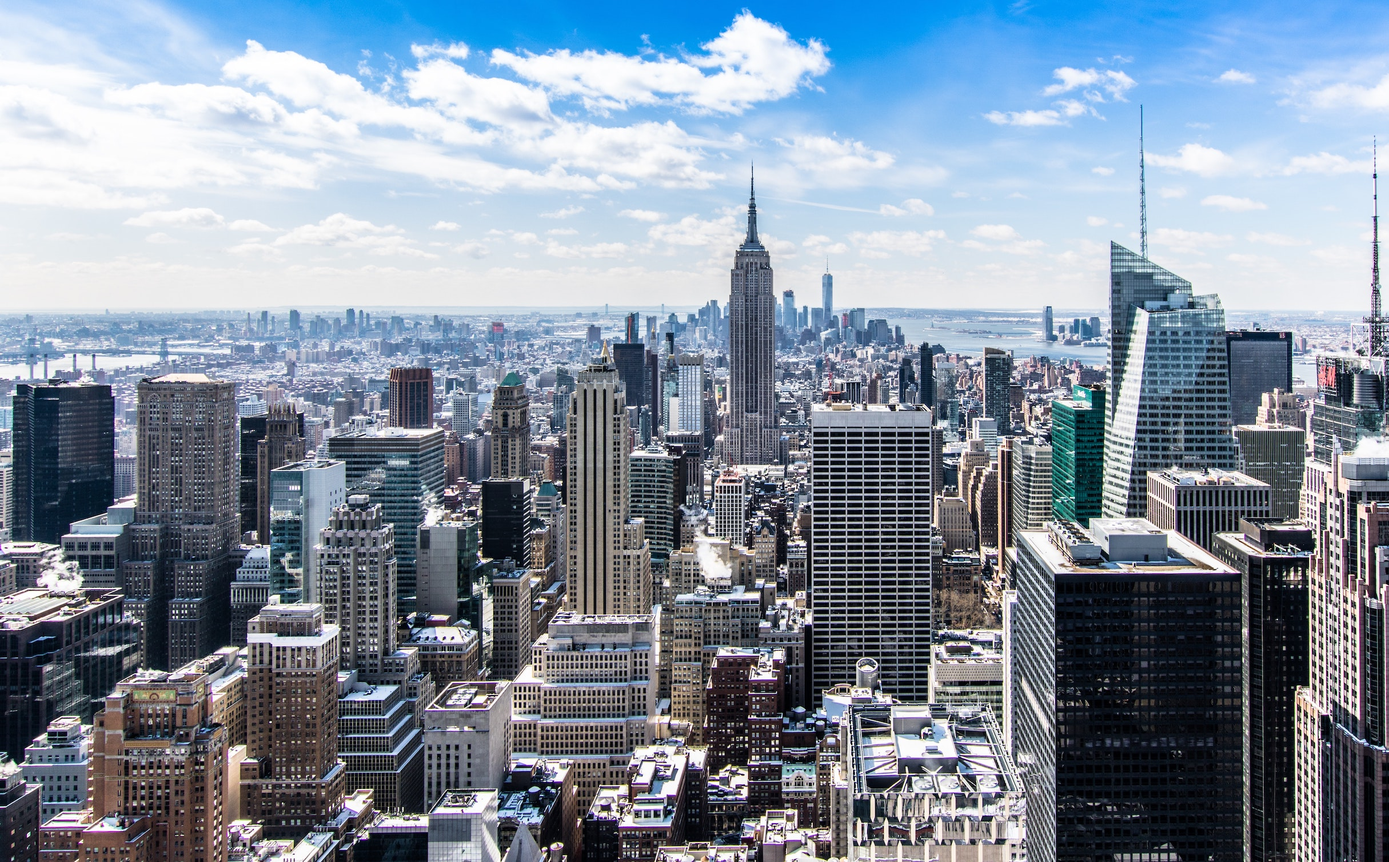
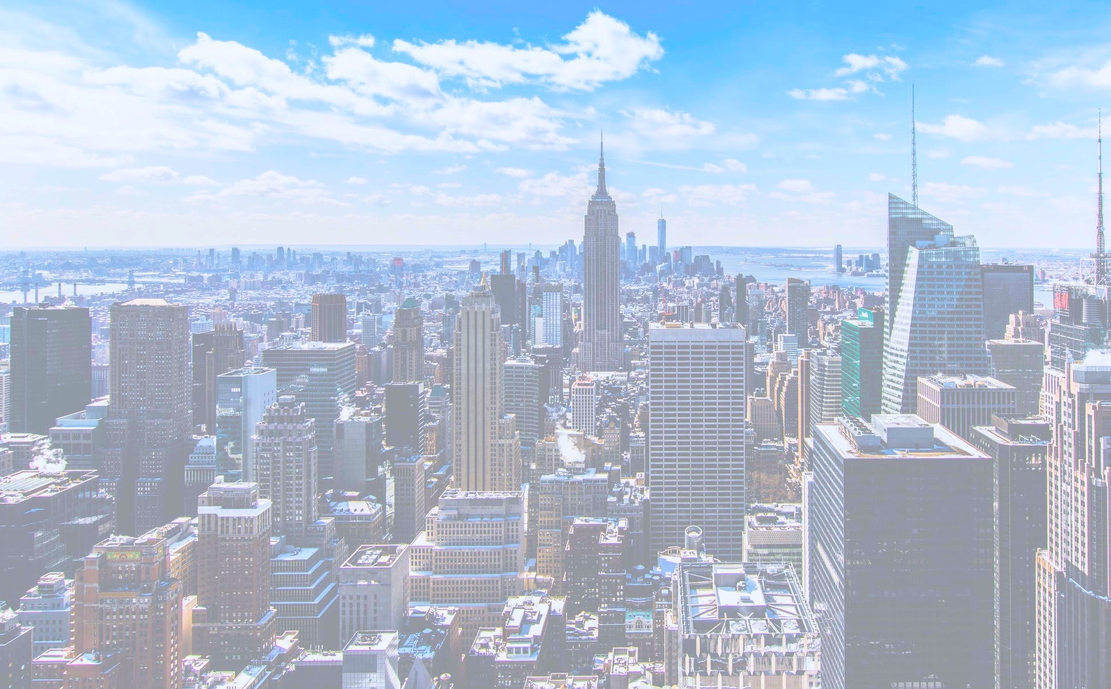
fix: Replace project background image

diff --git a/src/pages/Projects.js b/src/pages/Projects.js
@@ -24,7 +24,6 @@ const BackgroundImage = styled.div`
   background-image: url(${background});
   background-repeat: no-repeat;
   background-size: cover;
-  opacity: 30%;
 `;
 
 const Background = styled.img`
@@ -35,7 +34,6 @@ const Background = styled.img`
   object-fit: cover;
   position: fixed;
   z-index: -1;
-  opacity: 30%;
 `;
 
 const Container = styled.div`
